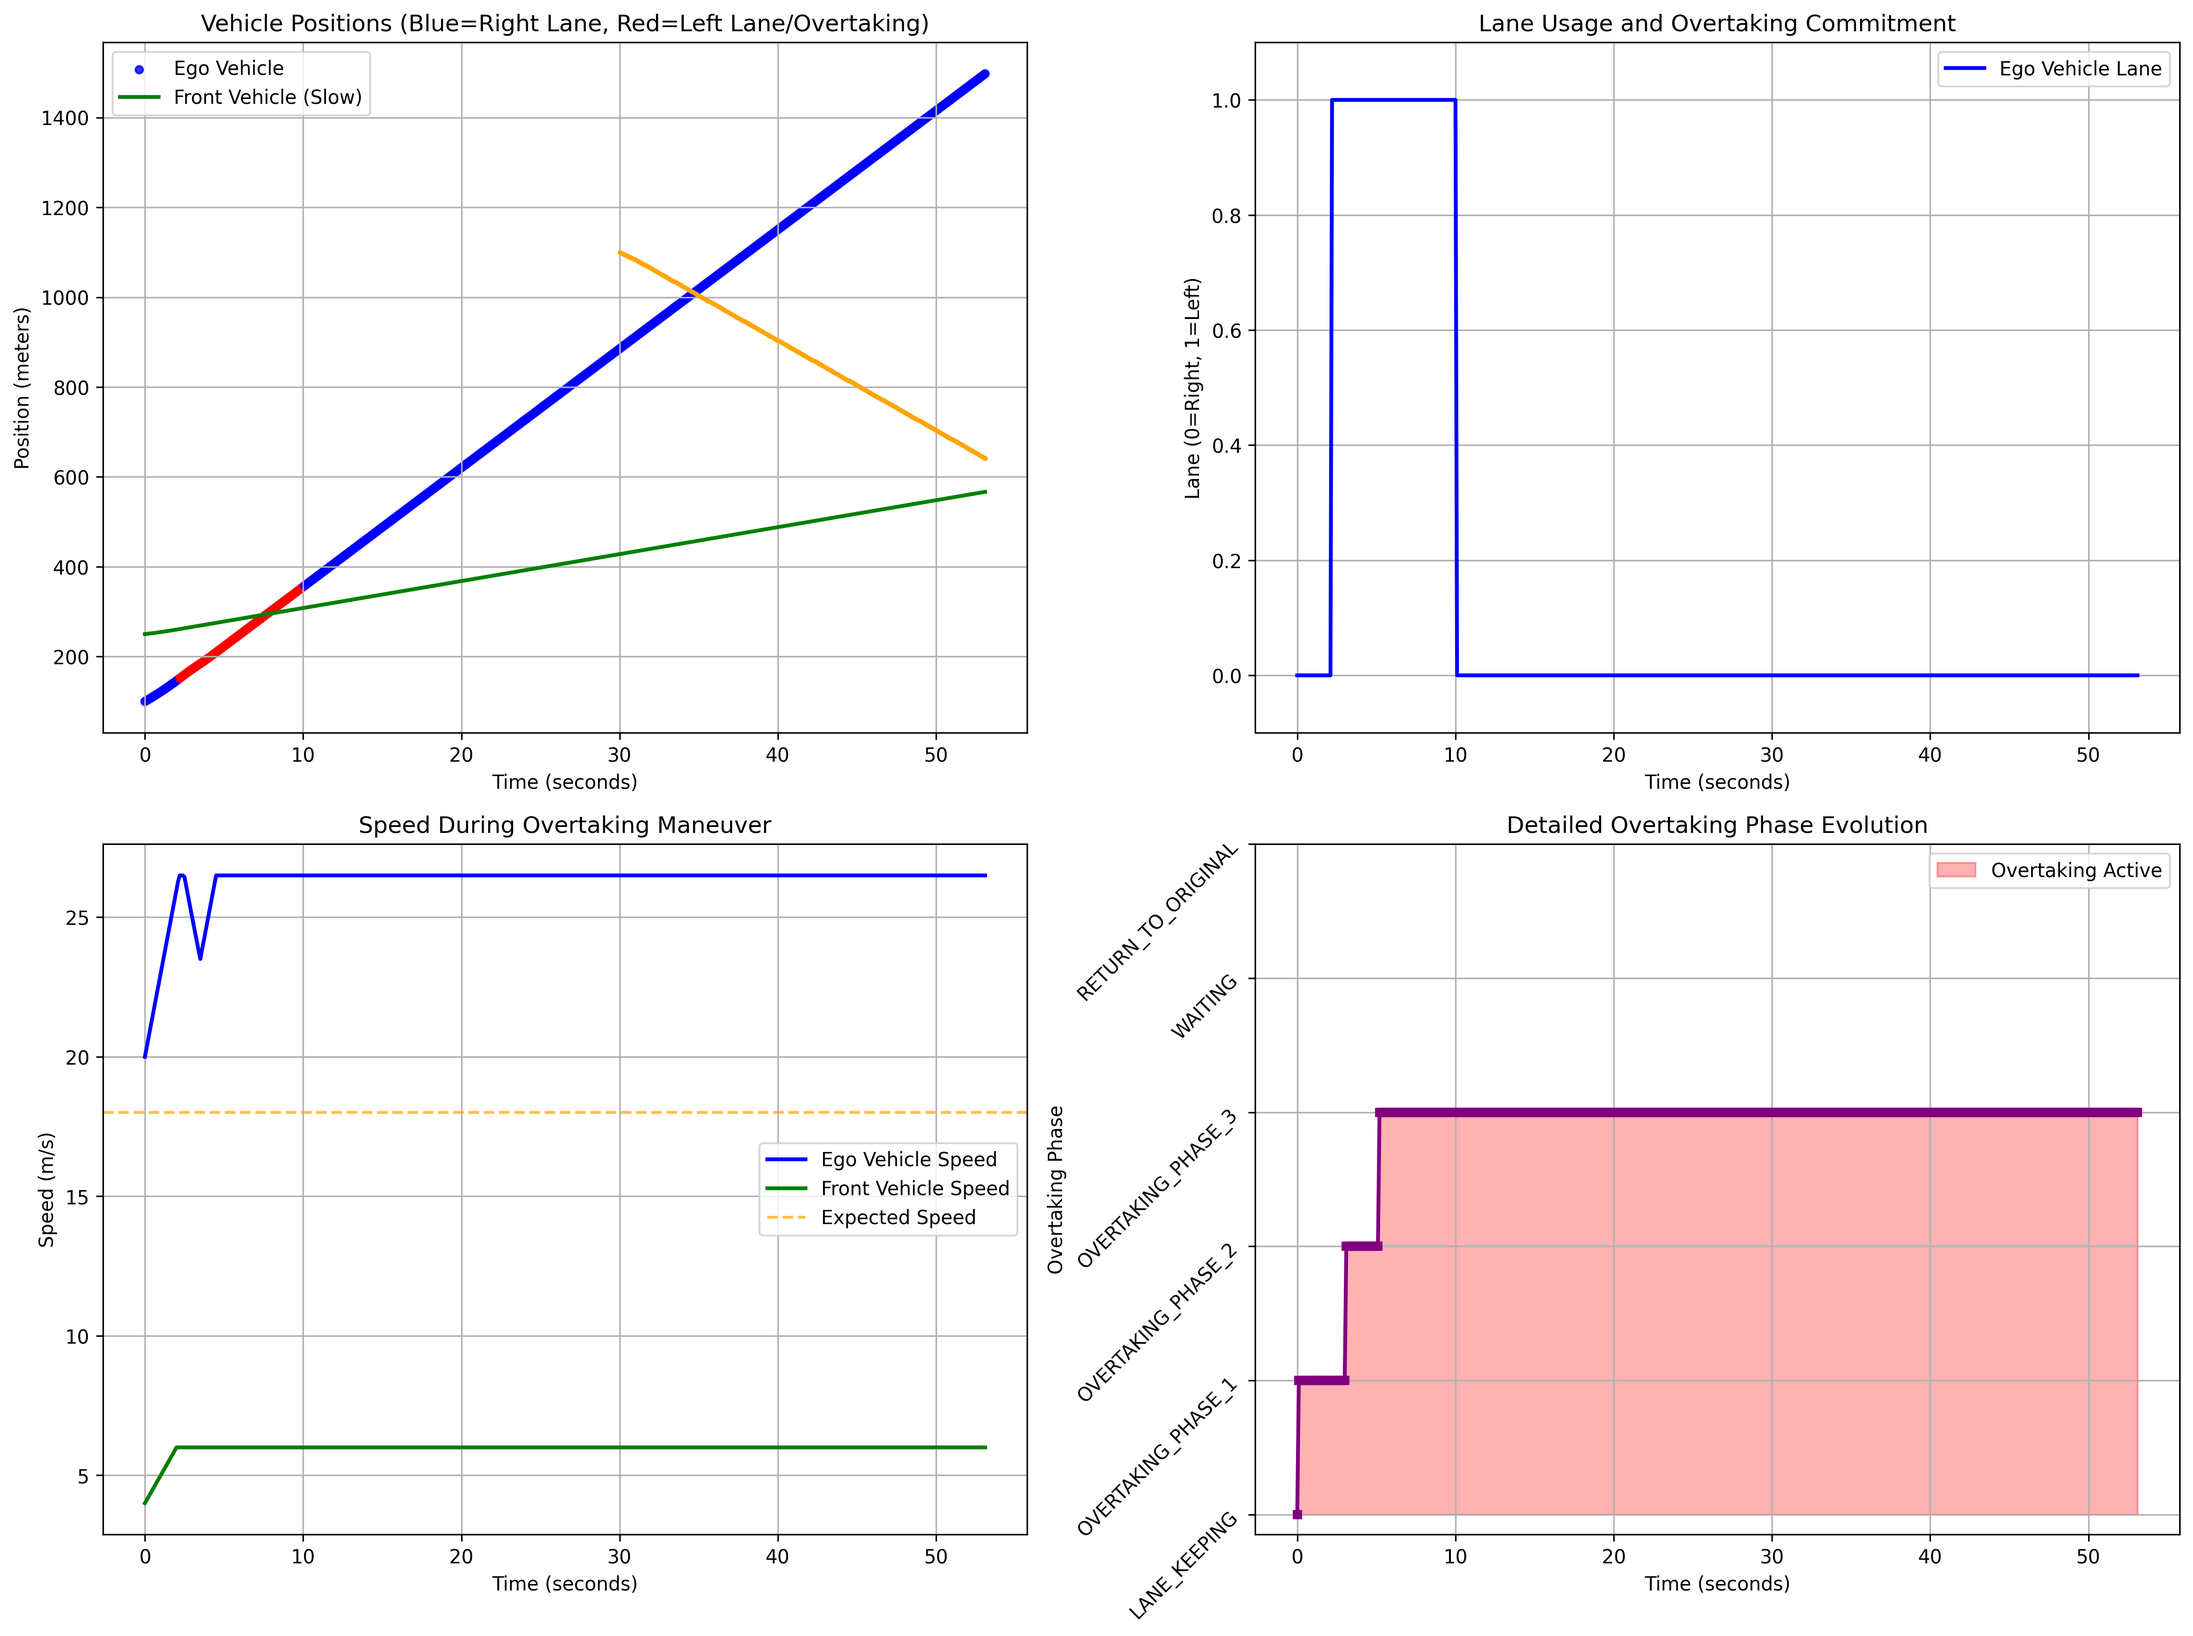
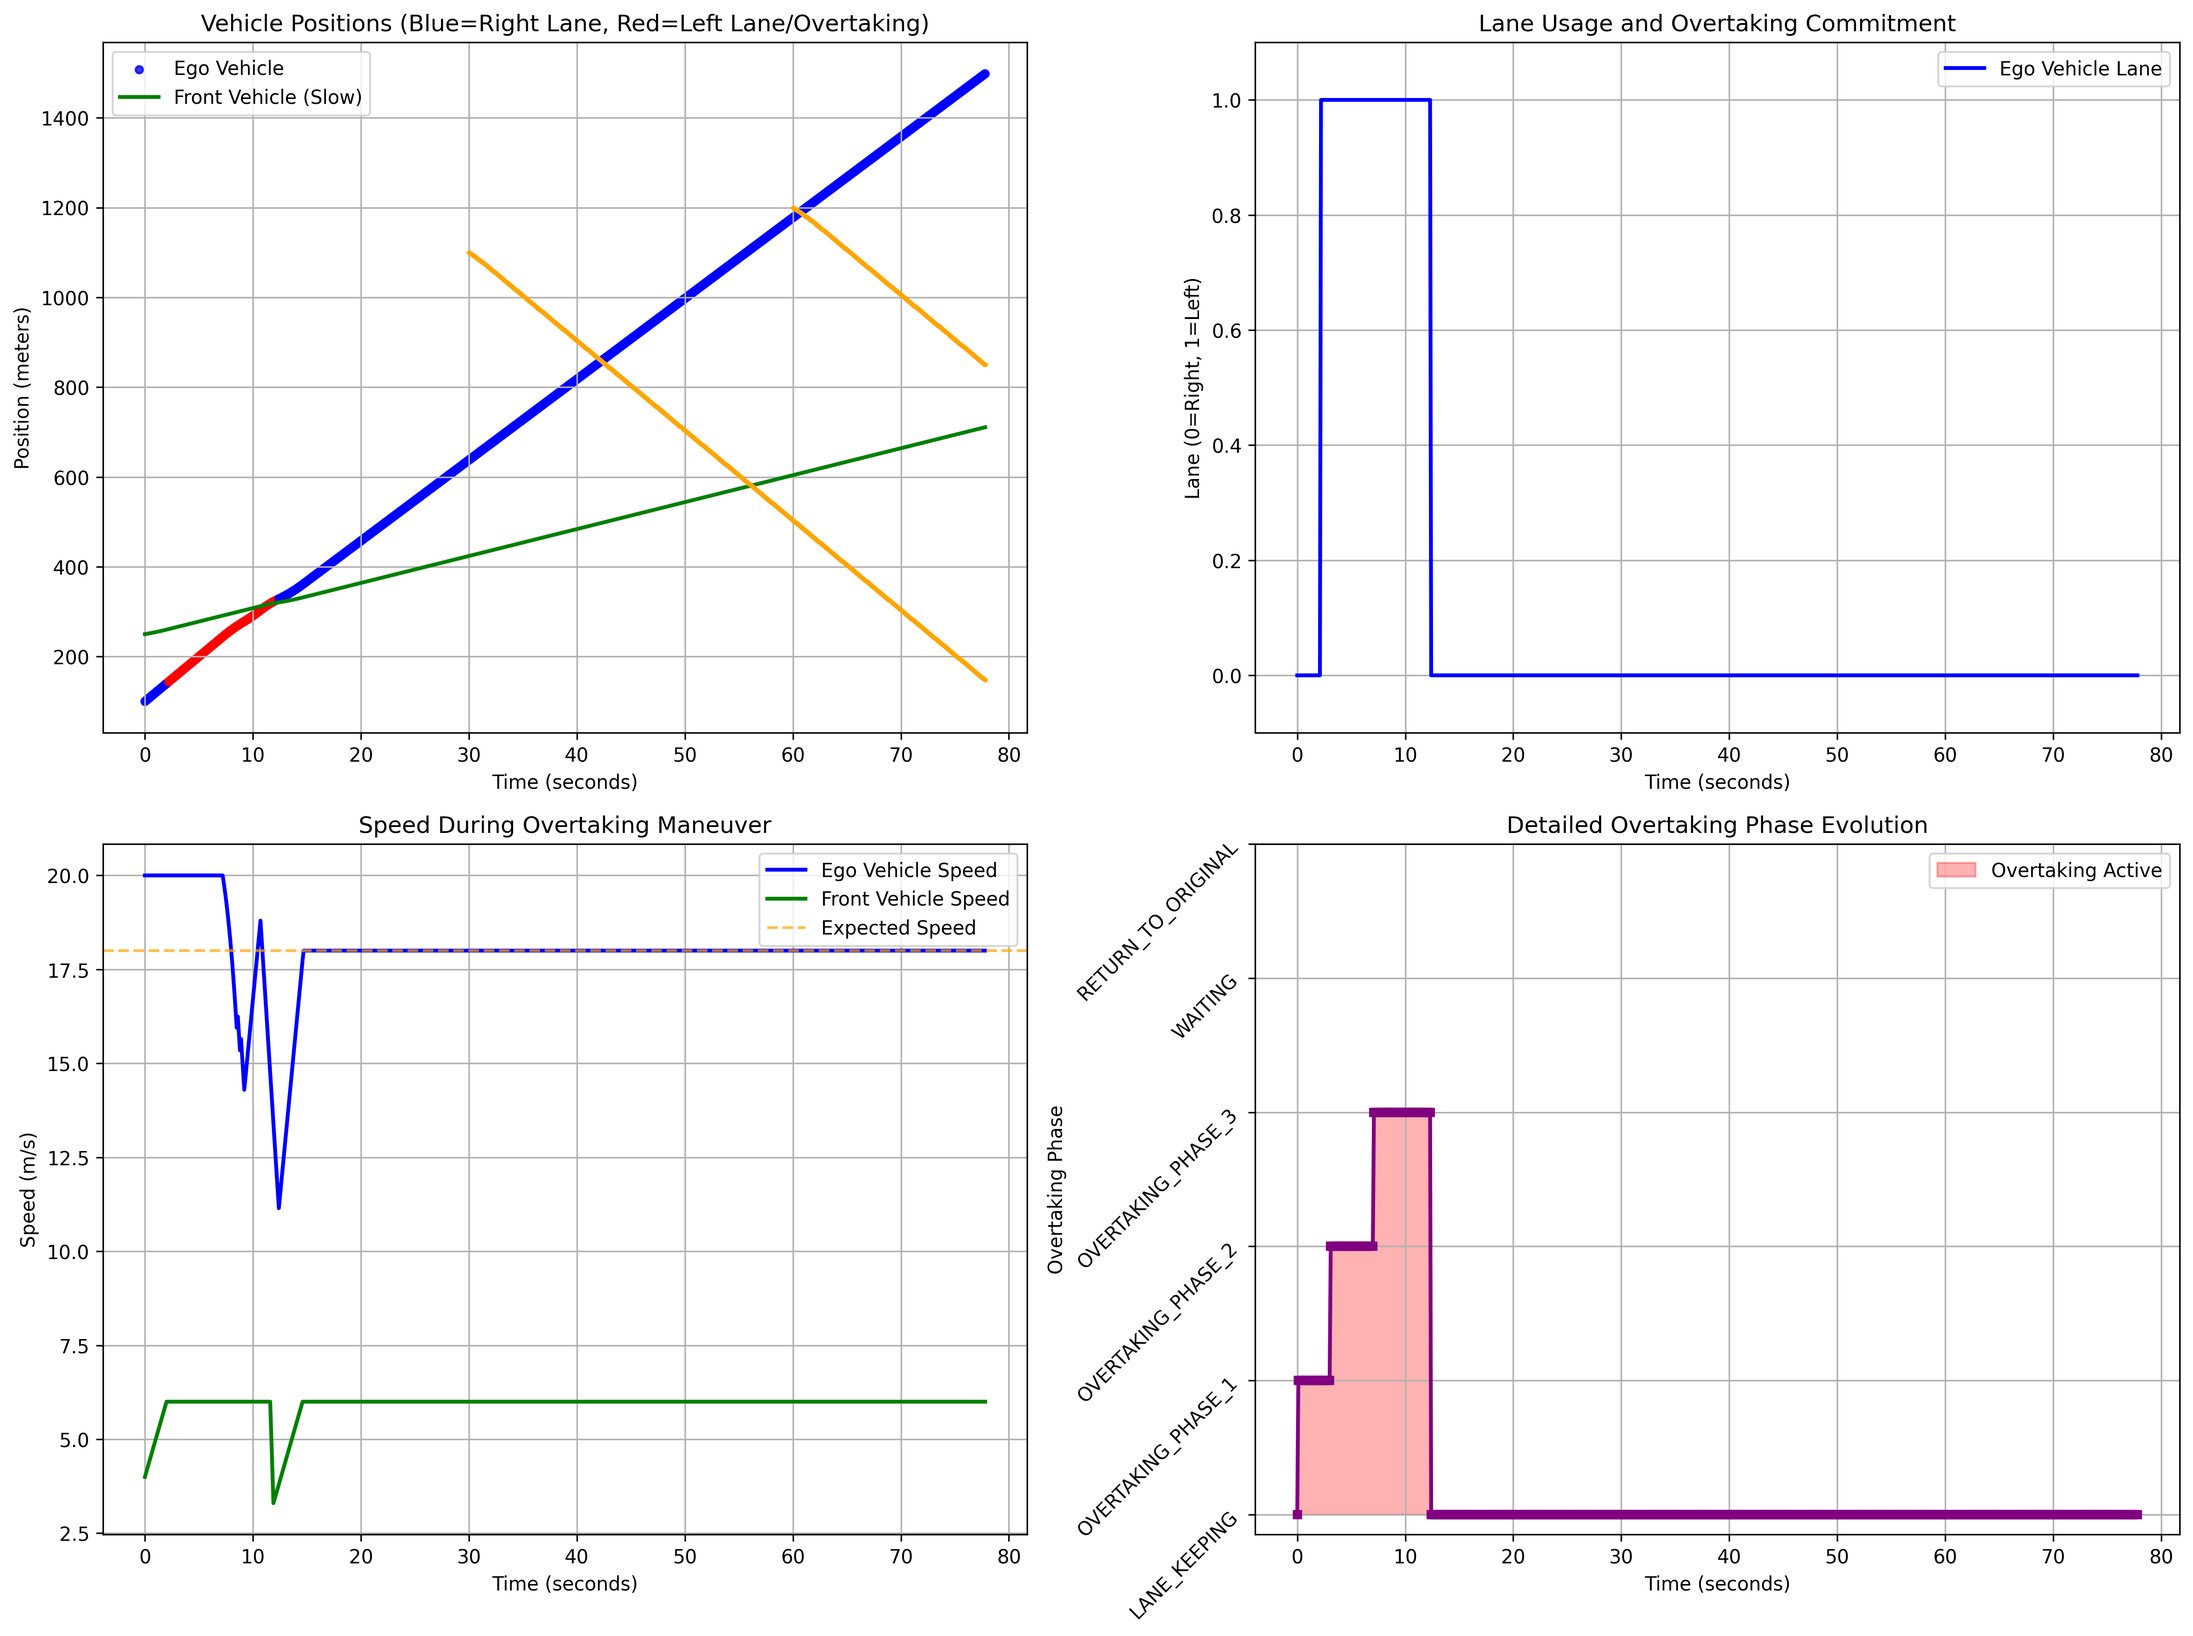
改 OVERTAKING_PHASE_2  和 OVERTAKING_PHASE_3 ，讓他快要預計的點的時候切回來，然後再加速回原本的 expected spee

diff --git a/simulation2.py b/simulation2.py
@@ -356,7 +356,7 @@ class SUMOOvertakingSimulation:
     </edge>
 
     <junction id="west" type="dead_end" x="0.00" y="5.25" incLanes="westbound_0" intLanes="" shape="0.00,10.50 0.00,0.00"/>
-    <junction id="east" type="dead_end" x="1500.00" y="5.25" incLanes="eastbound_0 eastbound_1" intLanes="" shape="1500.00,0.00 1500.00,10.50"/>
+    <junction id="east" type="dead_end" x="3500.00" y="5.25" incLanes="eastbound_0 eastbound_1" intLanes="" shape="1500.00,0.00 1500.00,10.50"/>
 
 </net>"""
         
@@ -374,7 +374,7 @@ class SUMOOvertakingSimulation:
     <route id="route_westbound" edges="westbound"/>
     
     <!-- Vehicle types -->
-    <vType id="ego_type" maxSpeed="30" accel="3.0" decel="4.5" sigma="0.0" length="4.5" minGap="2.0"/>
+    <vType id="ego_type" maxSpeed="20" accel="3.0" decel="4.5" sigma="0.0" length="4.5" minGap="2.0"/>
     <vType id="slow_type" maxSpeed="6" accel="1.0" decel="3.0" sigma="0.0" length="4.5" minGap="2.0"/>
     <vType id="oncoming_type" maxSpeed="20" accel="2.0" decel="4.0" sigma="0.0" length="4.5" minGap="2.0"/>
     
@@ -493,31 +493,60 @@ class SUMOOvertakingSimulation:
                     print(f"[PHASE] P1 → P2  (oncoming lane driving)")
 
             elif self.current_phase == OvertakingPhase.OVERTAKING_PHASE_2:
-                if ego_state.lane_position >= self.return_position:
+                # 檢查是否滿足返回條件
+                should_return = False
+                
+                # 1. 檢查是否超過返回位置
+                position_check = ego_state.lane_position - 15 >= self.return_position
+                
+                # 2. 檢查是否已超過前車足夠距離
+                if vehicle_f_state:
+                    distance_to_front = abs(ego_state.lane_position - vehicle_f_state.lane_position)
+                    distance_check = distance_to_front >= 1.0  # 確保有足夠安全距離
+                else:
+                    distance_check = True
+                    
+                should_return = position_check and distance_check
+                
+                print(should_return, position_check, distance_check)
+                if should_return:
                     print(f"[DBG P2] ego_pos={ego_state.lane_position:.2f}, return_pos={self.return_position:.2f}")
-                    traci.vehicle.changeLane(self.ego_vehicle_id, 0, 3.0)
+                    print(f"[DBG P2] distance_to_front={distance_to_front:.2f}")
+                    # 開始變道並轉換到Phase 3
+                    traci.vehicle.changeLane(self.ego_vehicle_id, 0, 2.0)  # 縮短變道時間
                     self.current_phase = OvertakingPhase.OVERTAKING_PHASE_3
+                    self.lane_change_duration = 0  # 重置變道計時器
                     print(f"[PHASE] P2 → P3  (prepare to return)")
 
-            elif self.current_phase == OvertakingPhase.OVERTAKING_PHASE_3:
-                ego_state = self.get_vehicle_state(self.ego_vehicle_id)  #  強制更新
-                lane_index = ego_state.lane_index
-                lane_pos = ego_state.lane_position
+        elif self.current_phase == OvertakingPhase.OVERTAKING_PHASE_3:
+            ego_state = self.get_vehicle_state(self.ego_vehicle_id)
+            lane_index = ego_state.lane_index
+            lane_pos = ego_state.lane_position
+            self.lane_change_duration += 1
 
-                print(f"[DBG P3] phase_check, lane_index={lane_index}, ego_pos={lane_pos:.2f}, return_pos={self.return_position:.2f}")
+            print(f"[DBG P3] phase_check, lane_index={lane_index}, ego_pos={lane_pos:.2f}, return_pos={self.return_position:.2f}, duration={self.lane_change_duration}")
 
-                if lane_index == 0:
-                    print("[DBG P3] lane_index == 0 判斷成立")
+            if lane_index == 0:
+                print("[DBG P3] 已成功返回原車道")
+                self.current_phase = OvertakingPhase.LANE_KEEPING
+                traci.vehicle.setSpeed(self.ego_vehicle_id, 18.0)  # 設回期望速度
+                print(f"[PHASE] P3 → LK  (return complete)")
+            else:
+                print("[DBG P3] 尚未返回原車道，繼續嘗試變道")
+                # 強制降低速度以輔助變道
+                current_speed = ego_state.speed
+                target_speed = min(current_speed * 0.7, 15.0)  # 顯著降低速度
+                traci.vehicle.setSpeed(self.ego_vehicle_id, target_speed)
+                
+                # 連續發送變道命令
+                for _ in range(3):  # 多次嘗試
+                    traci.vehicle.changeLane(self.ego_vehicle_id, 0, 1.0)
+                
+                # 變道超時保護縮短
+                if self.lane_change_duration > 30:  # 3秒保護
+                    print("[DBG P3] 變道超時，強制重置")
                     self.current_phase = OvertakingPhase.LANE_KEEPING
-                    print(f"[PHASE] P3 → LK  (return complete)")
-                else:
-                    print("[DBG P3] 尚未切回原道")
-
-
-
-
-        else:
-            traci.vehicle.changeLane(self.ego_vehicle_id, 0, 3.0)
+                    traci.vehicle.changeLane(self.ego_vehicle_id, 0, 0.5)
 
 
 
